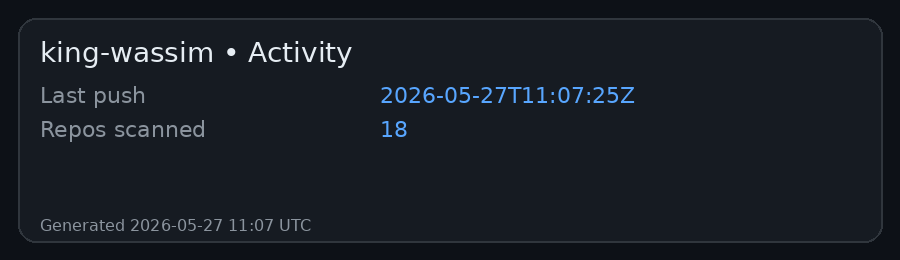
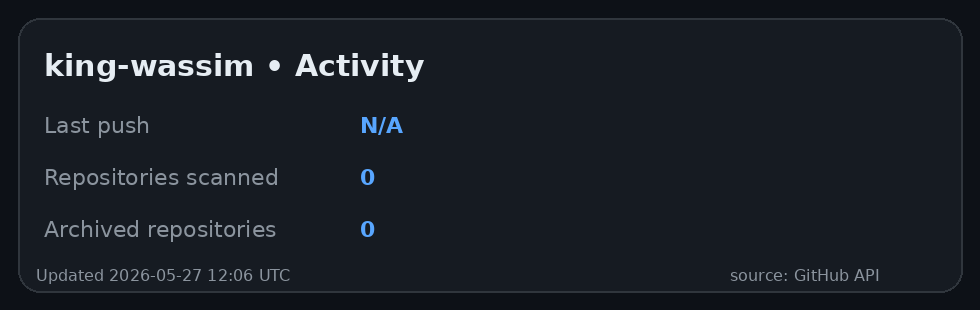
feat: redesign README stats cards and harden API fetching

diff --git a/scripts/generate_stats.py b/scripts/generate_stats.py
@@ -1,20 +1,28 @@
 import os
+from datetime import datetime
+from io import BytesIO
+
 import requests
 from PIL import Image, ImageDraw, ImageFont
-from datetime import datetime
 
 USERNAME = os.environ.get("USERNAME", "")
 THEME = os.environ.get("THEME", "dark")
+GH_TOKEN = os.environ.get("GH_TOKEN", "")
 
 OUT_DIR = os.path.join("assets", "stats")
 os.makedirs(OUT_DIR, exist_ok=True)
 
 API_BASE = "https://api.github.com"
-HEADERS = {"Accept": "application/vnd.github+json"}
+HEADERS = {
+    "Accept": "application/vnd.github+json",
+    "User-Agent": "king-wassim-readme-stats",
+}
+if GH_TOKEN:
+    HEADERS["Authorization"] = "Bearer " + GH_TOKEN
 
 
-def gh_get(url):
-    r = requests.get(url, headers=HEADERS, timeout=30)
+def gh_get(url, params=None):
+    r = requests.get(url, headers=HEADERS, params=params, timeout=30)
     r.raise_for_status()
     return r.json()
 
@@ -27,9 +35,20 @@ def format_num(n):
     return str(n)
 
 
-def load_font(size):
+def format_date(iso_text):
+    if not iso_text:
+        return "N/A"
     try:
-        return ImageFont.truetype("/usr/share/fonts/truetype/dejavu/DejaVuSans.ttf", size)
+        return datetime.fromisoformat(iso_text.replace("Z", "+00:00")).strftime("%Y-%m-%d")
+    except Exception:
+        return str(iso_text)
+
+
+def load_font(size, bold=False):
+    base = "/usr/share/fonts/truetype/dejavu"
+    font_path = f"{base}/DejaVuSans-Bold.ttf" if bold else f"{base}/DejaVuSans.ttf"
+    try:
+        return ImageFont.truetype(font_path, size)
     except Exception:
         return ImageFont.load_default()
 
@@ -43,50 +62,175 @@ def theme_colors(theme):
             "text": (230, 237, 243),
             "muted": (139, 148, 158),
             "accent": (88, 166, 255),
+            "good": (63, 185, 80),
+            "bar_bg": (36, 41, 47),
         }
     return {
         "bg": (255, 255, 255),
         "card": (245, 245, 245),
-        "border": (200, 200, 200),
-        "text": (0, 0, 0),
+        "border": (210, 210, 210),
+        "text": (24, 24, 24),
         "muted": (90, 90, 90),
-        "accent": (0, 102, 204),
+        "accent": (9, 105, 218),
+        "good": (26, 127, 55),
+        "bar_bg": (226, 232, 240),
     }
 
 
-def draw_card(title, lines, out_path, theme="dark"):
-    c = theme_colors(theme)
-    w, h = 900, 260
-    img = Image.new("RGB", (w, h), c["bg"])
+def new_card(width, height, c):
+    img = Image.new("RGB", (width, height), c["bg"])
     draw = ImageDraw.Draw(img)
-
     pad = 18
     draw.rounded_rectangle(
-        (pad, pad, w - pad, h - pad),
-        radius=18,
+        (pad, pad, width - pad, height - pad),
+        radius=22,
         fill=c["card"],
         outline=c["border"],
         width=2,
     )
+    return img, draw
 
-    title_font = load_font(28)
-    text_font = load_font(22)
-    small_font = load_font(16)
 
-    x = pad + 22
-    y = pad + 18
+def draw_footer(draw, c, width, height):
+    stamp = datetime.utcnow().strftime("Updated %Y-%m-%d %H:%M UTC")
+    draw.text((36, height - 44), stamp, fill=c["muted"], font=load_font(16))
+    draw.text((width - 250, height - 44), "source: GitHub API", fill=c["muted"], font=load_font(16))
 
-    draw.text((x, y), title, fill=c["text"], font=title_font)
-    y += 46
 
+def get_avatar(avatar_url):
+    if not avatar_url:
+        return None
+    try:
+        r = requests.get(avatar_url, timeout=30)
+        r.raise_for_status()
+        avatar = Image.open(BytesIO(r.content)).convert("RGB").resize((86, 86))
+        mask = Image.new("L", avatar.size, 0)
+        mask_draw = ImageDraw.Draw(mask)
+        mask_draw.ellipse((0, 0, 86, 86), fill=255)
+        circular = Image.new("RGBA", avatar.size)
+        circular.paste(avatar, (0, 0), mask)
+        return circular
+    except Exception:
+        return None
+
+
+def draw_stats_card(user, repos, stars, forks, out_path, theme="dark"):
+    c = theme_colors(theme)
+    width, height = 980, 430
+    img, draw = new_card(width, height, c)
+
+    name_font = load_font(34, bold=True)
+    title_font = load_font(24, bold=True)
+    body_font = load_font(22)
+    value_font = load_font(22, bold=True)
+
+    avatar = get_avatar(user.get("avatar_url"))
+    if avatar:
+        img.paste(avatar, (44, 48), avatar)
+    draw.text((148, 52), f"{USERNAME} • GitHub Stats", fill=c["text"], font=name_font)
+    draw.text((148, 96), user.get("name") or "", fill=c["muted"], font=body_font)
+
+    left_lines = [
+        ("Public repos", user.get("public_repos", 0)),
+        ("Followers", user.get("followers", 0)),
+        ("Following", user.get("following", 0)),
+    ]
+    right_lines = [
+        ("Stars (public)", stars),
+        ("Forks (public)", forks),
+        ("Account created", format_date(user.get("created_at"))),
+    ]
+
+    draw.text((44, 165), "Overview", fill=c["text"], font=title_font)
+    y = 210
+    for label, value in left_lines:
+        draw.text((44, y), label, fill=c["muted"], font=body_font)
+        draw.text((300, y), format_num(int(value)), fill=c["accent"], font=value_font)
+        y += 48
+
+    y = 210
+    for label, value in right_lines:
+        draw.text((500, y), label, fill=c["muted"], font=body_font)
+        txt = value if isinstance(value, str) else format_num(int(value))
+        draw.text((760, y), txt, fill=c["good"], font=value_font)
+        y += 48
+
+    draw_footer(draw, c, width, height)
+    img.save(out_path)
+
+
+def draw_languages_card(top_langs, out_path, theme="dark"):
+    c = theme_colors(theme)
+    width, height = 980, 430
+    img, draw = new_card(width, height, c)
+
+    title_font = load_font(32, bold=True)
+    body_font = load_font(22)
+    value_font = load_font(20, bold=True)
+    draw.text((44, 50), f"{USERNAME} • Top Languages", fill=c["text"], font=title_font)
+    draw.text((44, 92), "Based on public repositories", fill=c["muted"], font=body_font)
+
+    total = sum(v for _, v in top_langs) or 1
+    bar_x, bar_w = 44, 700
+    y = 150
+
+    palette = [
+        (88, 166, 255),
+        (63, 185, 80),
+        (210, 153, 34),
+        (201, 209, 217),
+        (248, 81, 73),
+    ]
+    for i, (lang, bytes_count) in enumerate(top_langs[:5]):
+        pct = max(0.02, bytes_count / total)
+        draw.text((bar_x, y), lang, fill=c["text"], font=body_font)
+        draw.text((bar_x + bar_w + 28, y), f"{pct*100:5.1f}%", fill=c["accent"], font=value_font)
+
+        top = y + 34
+        draw.rounded_rectangle((bar_x, top, bar_x + bar_w, top + 20), radius=10, fill=c["bar_bg"])
+        fill_w = int(bar_w * pct)
+        draw.rounded_rectangle(
+            (bar_x, top, bar_x + fill_w, top + 20),
+            radius=10,
+            fill=palette[i % len(palette)],
+        )
+        y += 56
+
+    if not top_langs:
+        draw.text((44, 170), "No language data available.", fill=c["muted"], font=body_font)
+
+    draw_footer(draw, c, width, height)
+    img.save(out_path)
+
+
+def draw_activity_card(repos, out_path, theme="dark"):
+    c = theme_colors(theme)
+    width, height = 980, 310
+    img, draw = new_card(width, height, c)
+
+    title_font = load_font(30, bold=True)
+    body_font = load_font(22)
+    value_font = load_font(22, bold=True)
+    draw.text((44, 48), f"{USERNAME} • Activity", fill=c["text"], font=title_font)
+
+    pushed_dates = [r.get("pushed_at") for r in repos if r.get("pushed_at")]
+    pushed_dates.sort(reverse=True)
+    last_push = format_date(pushed_dates[0]) if pushed_dates else "N/A"
+    archived = sum(1 for r in repos if r.get("archived"))
+    repos_scanned = len(repos)
+
+    lines = [
+        ("Last push", last_push),
+        ("Repositories scanned", format_num(repos_scanned)),
+        ("Archived repositories", format_num(archived)),
+    ]
+    y = 112
     for label, value in lines:
-        draw.text((x, y), label, fill=c["muted"], font=text_font)
-        draw.text((x + 340, y), value, fill=c["accent"], font=text_font)
-        y += 34
+        draw.text((44, y), label, fill=c["muted"], font=body_font)
+        draw.text((360, y), str(value), fill=c["accent"], font=value_font)
+        y += 52
 
-    stamp = datetime.utcnow().strftime("Generated %Y-%m-%d %H:%M UTC")
-    draw.text((x, h - pad - 26), stamp, fill=c["muted"], font=small_font)
-
+    draw_footer(draw, c, width, height)
     img.save(out_path)
 
 
@@ -94,23 +238,21 @@ def main():
     if not USERNAME:
         raise SystemExit("USERNAME env var is required")
 
-    user = gh_get(f"{API_BASE}/users/{USERNAME}")
-
-    public_repos = user.get("public_repos", 0)
-    followers = user.get("followers", 0)
-    following = user.get("following", 0)
+    try:
+        user = gh_get(f"{API_BASE}/users/{USERNAME}")
+    except requests.RequestException:
+        user = {"login": USERNAME, "name": USERNAME, "public_repos": 0, "followers": 0, "following": 0}
 
     repos = []
     page = 1
     while True:
-        r = requests.get(
-            f"{API_BASE}/users/{USERNAME}/repos",
-            headers=HEADERS,
-            params={"per_page": 100, "page": page, "type": "owner", "sort": "pushed"},
-            timeout=30,
-        )
-        r.raise_for_status()
-        data = r.json()
+        try:
+            data = gh_get(
+                f"{API_BASE}/users/{USERNAME}/repos",
+                params={"per_page": 100, "page": page, "type": "owner", "sort": "pushed"},
+            )
+        except requests.RequestException:
+            break
         if not data:
             break
         repos.extend(data)
@@ -122,49 +264,21 @@ def main():
     forks = sum(int(r.get("forks_count", 0)) for r in repos)
 
     lang_totals = {}
-    for r in repos[:20]:
+    for r in repos[:30]:
         full = r.get("full_name")
         if not full:
             continue
-        lr = requests.get(f"{API_BASE}/repos/{full}/languages", headers=HEADERS, timeout=30)
-        if lr.status_code != 200:
+        try:
+            lang_data = gh_get(f"{API_BASE}/repos/{full}/languages")
+        except requests.HTTPError:
             continue
-        for k, v in lr.json().items():
-            lang_totals[k] = lang_totals.get(k, 0) + int(v)
-
+        for lang, size in lang_data.items():
+            lang_totals[lang] = lang_totals.get(lang, 0) + int(size)
     top_langs = sorted(lang_totals.items(), key=lambda kv: kv[1], reverse=True)[:5]
-    top_langs_str = ", ".join([k for k, _ in top_langs]) if top_langs else "N/A"
 
-    draw_card(
-        f"{USERNAME} • GitHub Stats",
-        [
-            ("Public repos", format_num(public_repos)),
-            ("Followers", format_num(followers)),
-            ("Following", format_num(following)),
-            ("Stars (public)", format_num(stars)),
-            ("Forks (public)", format_num(forks)),
-        ],
-        os.path.join(OUT_DIR, "stats.png"),
-        theme=THEME,
-    )
-
-    draw_card(
-        f"{USERNAME} • Top Languages (public)",
-        [("Top 5", top_langs_str)],
-        os.path.join(OUT_DIR, "top-langs.png"),
-        theme=THEME,
-    )
-
-    last_push = repos[0].get("pushed_at") if repos else "N/A"
-    draw_card(
-        f"{USERNAME} • Activity",
-        [
-            ("Last push", str(last_push)),
-            ("Repos scanned", format_num(len(repos))),
-        ],
-        os.path.join(OUT_DIR, "activity.png"),
-        theme=THEME,
-    )
+    draw_stats_card(user, repos, stars, forks, os.path.join(OUT_DIR, "stats.png"), theme=THEME)
+    draw_languages_card(top_langs, os.path.join(OUT_DIR, "top-langs.png"), theme=THEME)
+    draw_activity_card(repos, os.path.join(OUT_DIR, "activity.png"), theme=THEME)
 
 
 if __name__ == "__main__":

diff --git a/README.md b/README.md
@@ -40,19 +40,14 @@
 ## 📊 GitHub Stats (generated in this repo)
 
 <div align="center">
-  <img src="assets/stats/stats.png" alt="GitHub Stats" />
+  <img src="assets/stats/stats.png" alt="GitHub Stats" width="49%" />
+  <img src="assets/stats/top-langs.png" alt="Top Languages" width="49%" />
 </div>
 
 <br>
 
 <div align="center">
-  <img src="assets/stats/top-langs.png" alt="Top Languages" />
-</div>
-
-<br>
-
-<div align="center">
-  <img src="assets/stats/activity.png" alt="Activity" />
+  <img src="assets/stats/activity.png" alt="Activity" width="99%" />
 </div>
 
 > These images are generated by a GitHub Actions workflow and stored in this repository, so they don't depend on external image providers.
